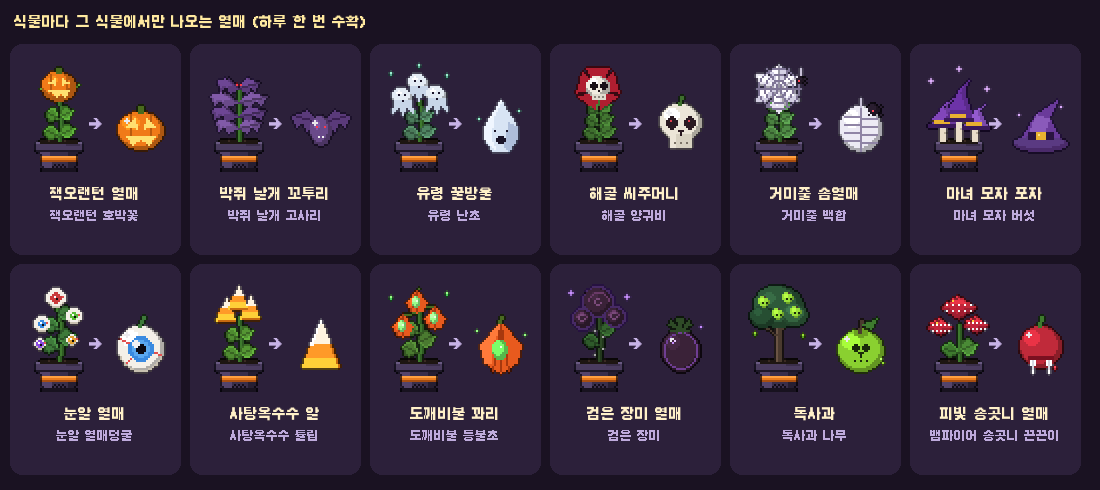
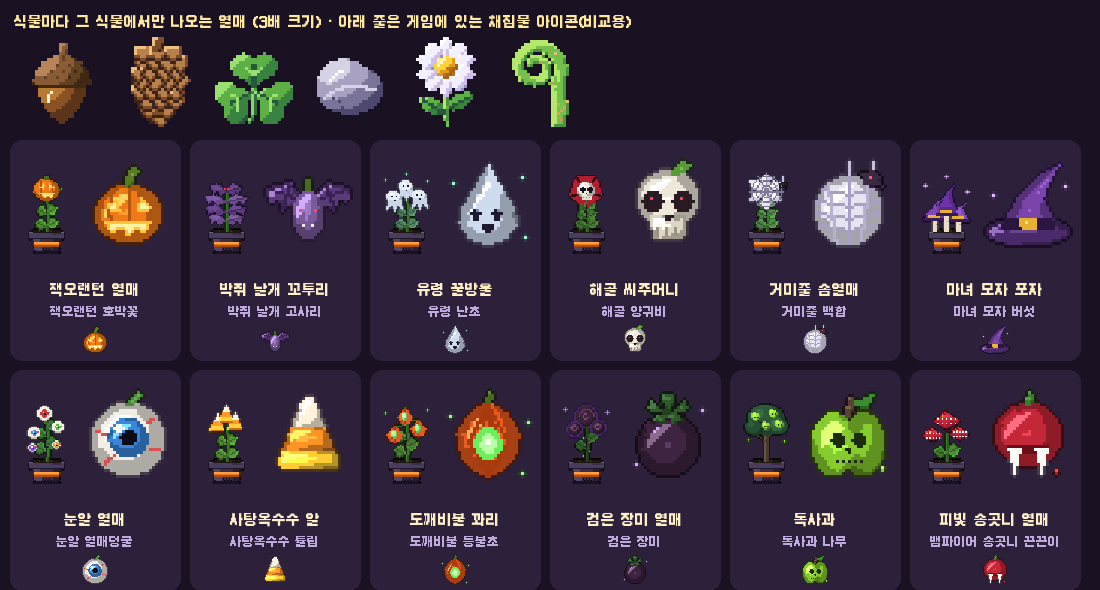
마법 씨앗 대회 시안: 열매 12종 다시 그림 (입체 음영 5단·색 테두리, 게임 아이콘 그림체)
Claude-Session: https://claude.ai/code/session_01HhJ2NoNCjk5kaA3GWL7UDs

Changed region(s): [[0.0, 0.0, 0.6491, 1.0], [0.8345, 0.1224, 0.9891, 1.0], [0.68, 0.1224, 0.8036, 1.0]]

diff --git a/tools/iso/seed_fruits.py b/tools/iso/seed_fruits.py
@@ -1,89 +1,134 @@
-# 마법 씨앗 대회: 할로윈 식물 12종에서만 나오는 열매 12종 (아이템 아이콘 32×32, 게임 아이콘과 같은 LPC 그림체)
+# 마법 씨앗 대회: 할로윈 식물 12종에서만 나오는 열매 12종 (아이템 아이콘 32×32)
+#   게임 아이콘 그림체: 모양마다 입체 음영 5단(왼쪽 위 빛) · 반짝 · 테두리는 그 색의 아주 어두운 톤
 #   python3 seed_fruits.py → out/seed_fruits.png (32×32 × 12) · out/seed_fruits_preview.png
 import os, math
+import numpy as np
 from PIL import Image, ImageDraw, ImageFont
-import seed_plants as SP   # 테두리·음영 손잡이 (import 하면 식물 그림도 다시 만들어요)
+from scipy import ndimage
 HERE = os.path.dirname(os.path.abspath(__file__)); OUT = os.path.join(HERE, 'out')
-hx, sh, ramp, outline = SP.hx, SP.sh, SP.ramp, SP.outline
-class I:
-    def __init__(s): s.im = Image.new('RGBA', (32, 32), (0, 0, 0, 0)); s.d = ImageDraw.Draw(s.im)
-    def ball(s, x, y, rx, ry, c):   # 둥근 열매 4단 음영 + 반짝
-        d0, m, l = ramp(c); s.d.ellipse([x - rx, y - ry, x + rx, y + ry], fill=d0); s.d.ellipse([x - rx, y - ry, x + rx - 2, y + ry - 2], fill=m)
-        if rx > 4 and ry > 4: s.d.ellipse([x - rx + 2, y - ry + 2, x - 1, y - 1], fill=l); s.d.ellipse([x - rx * .55 - 1, y - ry * .55 - 1, x - rx * .55 + 1, y - ry * .55 + 1], fill=(255, 255, 255, 230))
-    def px(s, x, y, c): s.d.point((x, y), fill=hx(c) if isinstance(c, str) else c)
-    def poly(s, pts, c): s.d.polygon(pts, fill=hx(c) if isinstance(c, str) else c)
-    def line(s, pts, c, w=1): s.d.line(pts, fill=hx(c) if isinstance(c, str) else c, width=w)
-    def stem(s, x, y, c='#4A6A22'): s.line([(x, y), (x + 1, y - 4)], c, 2); s.poly([(x + 1, y - 3), (x + 7, y - 6), (x + 3, y - 1)], '#5A9A2E')
-    def done(s): return outline(s.im)
-def jack(s):   # 잭오랜턴 열매
-    s.ball(16, 18, 11, 9, '#F07A18'); s.line([(11, 10), (11, 26)], '#B85A0E'); s.line([(21, 10), (21, 26)], '#B85A0E'); s.d.rectangle([15, 6, 17, 9], fill=hx('#4A6A1E'))
-    s.poly([(9, 16), (13, 12), (14, 17)], '#FFE070'); s.poly([(23, 16), (19, 12), (18, 17)], '#FFE070'); s.poly([(9, 21), (23, 21), (20, 25), (16, 22), (12, 25)], '#FFE070')
-def bat(s):    # 박쥐 날개 꼬투리
-    for k in (-1, 1): s.poly([(16, 14), (16 + k * 7, 8), (16 + k * 14, 11), (16 + k * 12, 16), (16 + k * 9, 14), (16 + k * 7, 18)], '#5A3A7A')
-    for k in (-1, 1): s.line([(16, 14), (16 + k * 12, 11)], '#3A2052')
-    s.ball(16, 18, 5, 7, '#6A4A8A'); s.px(14, 16, '#FF3A4A'); s.px(18, 16, '#FF3A4A'); s.px(15, 21, '#F0F0F0'); s.px(17, 21, '#F0F0F0')
-def ghostdrop(s):   # 유령 꿀방울
-    s.poly([(16, 3), (24, 16), (24, 22), (20, 28), (12, 28), (8, 22), (8, 16)], '#D8E4F4'); s.poly([(16, 3), (12, 12), (11, 22), (13, 27), (8, 22), (8, 16)], '#F0F6FF')
-    s.poly([(20, 14), (24, 16), (24, 22), (20, 28), (18, 26)], '#AEBEDA'); s.px(13, 18, '#1A1428'); s.px(19, 18, '#1A1428'); s.d.ellipse([14, 21, 18, 24], fill=hx('#1A1428'))
-    s.px(11, 11, '#FFFFFF'); s.px(25, 8, '#9AF0D0'); s.px(5, 12, '#9AF0D0')
-def skull(s):  # 해골 씨주머니
-    s.ball(16, 14, 10, 9, '#ECE6D8'); s.d.rectangle([11, 20, 21, 26], fill=hx('#D8D2C2')); s.d.rectangle([11, 20, 13, 26], fill=hx('#ECE6D8'))
-    s.d.ellipse([9, 11, 14, 17], fill=hx('#2A1A22')); s.d.ellipse([18, 11, 23, 17], fill=hx('#2A1A22')); s.px(11, 13, '#E04050'); s.px(20, 13, '#E04050')
-    s.poly([(15, 18), (17, 18), (16, 20)], '#2A1A22'); [s.px(x, 24, '#7A7266') for x in (13, 16, 19)]
-    s.line([(16, 5), (17, 1)], '#3E6E2E', 2)
-def web(s):    # 거미줄 솜열매
-    s.ball(16, 17, 10, 11, '#ECEAF4')
-    for y in (11, 15, 19, 23): s.line([(8, y), (24, y + 1)], (170, 160, 195, 200))
-    s.line([(16, 6), (16, 28)], (170, 160, 195, 200)); s.line([(16, 2), (16, 6)], '#C8C0D8')
-    s.ball(23, 8, 2.6, 2.4, '#2A1E30'); s.px(22, 8, '#FF4A5A'); [s.px(23 + dx, 8 + dy, '#2A1E30') for dx, dy in ((-3, -2), (3, -2), (-3, 2), (3, 2))]
-def hat(s):    # 마녀 모자 포자
-    s.poly([(5, 24), (27, 24), (20, 12), (24, 3), (14, 10)], '#6A3A9A'); s.poly([(14, 10), (20, 12), (17, 22), (9, 22)], '#8A5ABA')
-    s.d.ellipse([3, 21, 29, 28], fill=hx('#4A2A6A')); s.d.ellipse([3, 21, 27, 26], fill=hx('#5A3A82'))
-    s.d.rectangle([10, 19, 22, 22], fill=hx('#2A1440')); s.d.rectangle([14, 19, 18, 22], fill=hx('#E8B030')); s.px(15, 20, '#FFE080')
-    s.px(26, 6, '#E0B0FF'); s.px(5, 10, '#E0B0FF')
-def eye(s):    # 눈알 열매
-    s.ball(16, 17, 11, 11, '#F4F0E8'); s.d.arc([5, 6, 27, 28], 20, 160, fill=hx('#C8C0B0'))
-    for pts in (((6, 12), (10, 14)), ((26, 20), (22, 19)), ((9, 24), (12, 21))): s.line(list(pts), '#E05050')
-    s.d.ellipse([10, 11, 22, 23], fill=hx('#3A8AE0')); s.d.ellipse([12, 13, 20, 21], fill=hx('#5AA8F0')); s.d.ellipse([14, 15, 18, 19], fill=hx('#0A0A14')); s.d.ellipse([12, 13, 15, 16], fill=(255, 255, 255, 240))
-    s.line([(16, 6), (18, 1)], '#3E7A3A', 2)
-def candy(s):  # 사탕옥수수 알
-    s.poly([(16, 3), (25, 26), (7, 26)], '#FFF4E0'); s.poly([(11, 15), (21, 15), (25, 26), (7, 26)], '#FF9A28'); s.poly([(8.5, 22), (23.5, 22), (25, 26), (7, 26)], '#FFD038')
-    s.poly([(16, 3), (13, 11), (12, 15), (11, 15)], '#FFFFFF'); s.line([(21, 15), (25, 26)], '#C86A10'); s.px(14, 8, '#FFFFFF')
-def wisp(s):   # 도깨비불 꽈리
-    s.poly([(16, 4), (26, 15), (24, 24), (16, 29), (8, 24), (6, 15)], '#E85A1E'); s.poly([(16, 4), (12, 14), (11, 24), (8, 24), (6, 15)], '#FF7A3A')
-    for x in (12, 16, 20): s.line([(16, 5), (x, 28)], '#A8380E')
-    s.ball(16, 18, 3.5, 4.5, '#7AFF6A'); s.px(16, 16, '#F0FFE8'); s.line([(16, 4), (17, 1)], '#4A6A22', 2)
-    s.px(4, 8, '#9AFF8A'); s.px(28, 10, '#9AFF8A')
-def rosehip(s):   # 검은 장미 열매
-    s.ball(16, 18, 9, 10, '#3A2238'); s.d.ellipse([8, 9, 24, 27], outline=(150, 80, 200, 160))
-    for k in range(5): a = math.radians(k * 72 - 90); s.poly([(16, 8), (16 + 6 * math.cos(a - .3), 8 + 4 * math.sin(a - .3) - 2), (16 + 6 * math.cos(a + .3), 8 + 4 * math.sin(a + .3) - 2)], '#2E4A26')
-    s.px(12, 14, '#C890FF'); s.px(13, 13, '#E8C8FF'); s.px(26, 6, '#C890FF')
-def apple(s):  # 독사과
-    s.ball(16, 18, 11, 10, '#8AD030'); s.d.ellipse([13, 7, 19, 11], fill=hx('#6AA020')); s.line([(16, 9), (17, 3)], '#4A3A2E', 2); s.poly([(17, 5), (24, 2), (21, 7)], '#3E7A2E')
-    s.d.ellipse([12, 15, 15, 18], fill=hx('#1A2A0A')); s.d.ellipse([17, 15, 20, 18], fill=hx('#1A2A0A')); s.poly([(15, 19), (17, 19), (16, 21)], '#1A2A0A')
-    for x in (13, 16, 19): s.px(x, 23, '#1A2A0A')
-    s.px(26, 22, '#B8FF6A'); s.px(27, 24, '#9AE03A')
-def fang(s):   # 피빛 송곳니 열매
-    s.ball(16, 16, 10, 10, '#C02A3A'); s.poly([(11, 22), (13, 22), (12, 29)], '#FFFFFF'); s.poly([(19, 22), (21, 22), (20, 29)], '#FFFFFF')
-    s.line([(12, 22), (12, 27)], '#D8D8E0'); s.line([(20, 22), (20, 27)], '#D8D8E0'); s.d.rectangle([10, 21, 22, 22], fill=hx('#7A1020'))
-    s.line([(16, 6), (17, 1)], '#3E7A2E', 2); s.px(23, 26, '#FF5060'); s.px(23, 27, '#C02A3A')
+N, SS = 32, 4
+def hx(c): return np.array([int(c[i:i + 2], 16) for i in (1, 3, 5)], float)
+class Icon:
+    def __init__(s): s.rgb = np.zeros((N, N, 3)); s.a = np.zeros((N, N), bool); s.own = np.full((N, N), -1); s.cols = []
+    def mask(s, fn):   # 4배로 그려서 줄이면 둥근 모양이 매끈해요
+        im = Image.new('L', (N * SS, N * SS), 0); d = ImageDraw.Draw(im); fn(d, SS)
+        return np.array(im.resize((N, N), Image.BOX)) > 110
+    def shade(s, m, c, gloss=True, flat=False, k=1.0):   # 입체 음영 5단
+        if not m.any(): return m
+        base = hx(c); pal = [base * .5, base * .72, base, np.minimum(255, base * 1.12 + 22), np.minimum(255, base * 1.25 + 60)]
+        if flat: tone = np.full((N, N), 2)
+        else:
+            d = ndimage.distance_transform_edt(m); dn = d / max(1, d.max()); g = ndimage.gaussian_filter(d, 1.0); gy, gx = np.gradient(g)
+            lt = -(gx + gy) / (np.hypot(gx, gy) + 1e-6); YY, XX = np.mgrid[0:N, 0:N]; ys, xs = np.nonzero(m)
+            pos = -((XX - xs.mean()) / (np.ptp(xs) + 1) + (YY - ys.mean()) / (np.ptp(ys) + 1))   # 왼쪽 위가 밝게
+            v = .42 * dn + .22 * lt * (1 - dn) + .55 * pos * k + .32; tone = np.clip(np.floor(v * 4.2), 0, 3).astype(int)
+            if gloss:
+                hp = (m & (dn > .35) & (pos > .28)); tone[hp] = 4
+        for t in range(5): sel = m & (tone == t); s.rgb[sel] = pal[t]
+        s.a |= m; s.cols.append(base); s.own[m] = len(s.cols) - 1; return m
+    def fill(s, m, c): s.rgb[m] = hx(c); s.a |= m; s.cols.append(hx(c)); s.own[m] = len(s.cols) - 1
+    def px(s, x, y, c): s.rgb[y, x] = hx(c); s.a[y, x] = True; s.cols.append(hx(c)); s.own[y, x] = len(s.cols) - 1
+    def image(s):   # 바깥 테두리: 이웃한 색을 아주 어둡게
+        out = np.zeros((N, N, 4), np.uint8); out[s.a, :3] = np.clip(s.rgb[s.a], 0, 255); out[s.a, 3] = 255
+        ring = ndimage.binary_dilation(s.a) & ~s.a
+        for y, x in zip(*np.nonzero(ring)):
+            for dy, dx in ((0, 1), (0, -1), (1, 0), (-1, 0), (1, 1), (-1, -1), (1, -1), (-1, 1)):
+                Y, X = y + dy, x + dx
+                if 0 <= Y < N and 0 <= X < N and s.a[Y, X]:
+                    c = s.cols[s.own[Y, X]] if s.own[Y, X] >= 0 else s.rgb[Y, X]; out[y, x, :3] = np.clip(c * np.array([.26, .22, .3]) + 6, 0, 255); out[y, x, 3] = 255; break
+        return Image.fromarray(out)
+E = lambda x0, y0, x1, y1: (lambda d, k: d.ellipse([x0 * k, y0 * k, x1 * k, y1 * k], fill=255))
+PG = lambda pts: (lambda d, k: d.polygon([(x * k, y * k) for x, y in pts], fill=255))
+LN = lambda pts, w: (lambda d, k: d.line([(x * k, y * k) for x, y in pts], fill=255, width=int(w * k)))
+def inner_line(s, m_base, pts, c, w=1):   # 모양 안쪽 선 (호박 골 같은 것)
+    m = s.mask(LN(pts, w)) & m_base; s.rgb[m] = hx(c)
+def jack(s):
+    m = s.shade(s.mask(E(5, 9, 27, 28)), '#F07A18')
+    for pts in (((11, 10), (9.5, 18), (11, 27)), ((21, 10), (22.5, 18), (21, 27)), ((16, 9.5), (16, 28))): inner_line(s, m, pts, '#B4560E')
+    s.shade(s.mask(LN([(16, 10), (16.5, 6), (19, 3.5)], 2.6)), '#5A7A22', gloss=False)
+    for pts, c in ((((8, 17), (12, 13), (13.5, 18)), '#FFC23A'), (((24, 17), (20, 13), (18.5, 18)), '#FFC23A'), (((8, 21), (24, 21), (21, 25.5), (18.5, 23), (16, 26), (13.5, 23), (11, 25.5)), '#FFC23A')):
+        mm = s.mask(PG(pts)) & m; s.rgb[mm] = hx(c); core = ndimage.binary_erosion(mm); s.rgb[core] = hx('#FFF2A0')
+def bat(s):
+    for k in (-1, 1):
+        w = s.shade(s.mask(PG([(16, 15), (16 + k * 6, 8), (16 + k * 14, 10), (16 + k * 13, 15), (16 + k * 10, 13.5), (16 + k * 8.5, 18), (16 + k * 6, 15.5)])), '#5A3A7A', k=.6)
+        inner_line(s, w, [(16, 15), (16 + k * 12.5, 10.5)], '#3A2050'); inner_line(s, w, [(16 + k * 6, 9), (16 + k * 8.5, 17)], '#3A2050')
+    s.shade(s.mask(E(11, 11, 21, 27)), '#7A5A9A')
+    for x in (13.5, 18.5): s.px(int(x), 17, '#FF4A5A')
+    s.px(14, 22, '#F4F0F0'); s.px(17, 22, '#F4F0F0'); s.fill(s.mask(LN([(16, 11), (16, 7)], 1.6)), '#4A6A22')
+def ghostdrop(s):
+    m = s.shade(s.mask(PG([(16, 2), (20, 9), (25, 17), (25.5, 22), (22, 27), (16, 29), (10, 27), (6.5, 22), (7, 17), (12, 9)])), '#CFDCF0', k=1.1)
+    for x in (12, 19): s.fill(s.mask(E(x - 1.4, 16.5, x + 1.4, 20.5)) & m, '#1E1830')
+    s.fill(s.mask(E(14.3, 21.5, 17.7, 25)) & m, '#1E1830'); s.px(12, 17, '#7A88B8'); s.px(19, 17, '#7A88B8')
+    for x, y in ((4, 8), (27, 6), (28, 26)): s.px(x, y, '#A8F4DA')
+def skull(s):
+    head = s.shade(s.mask(E(6, 4, 26, 23)), '#EEE8DA'); jaw = s.shade(s.mask(PG([(10, 19), (22, 19), (21, 27), (11, 27)])), '#DED6C4', k=.7)
+    for x in (11, 21): s.fill(s.mask(E(x - 3.4, 11, x + 3.4, 18)) & head, '#2A1A24'); s.px(int(x) - 1, 13, '#E8485A')
+    s.fill(s.mask(PG([(14.5, 19), (17.5, 19), (16, 21.5)])) & head, '#2A1A24')
+    for x in (12.5, 15.5, 18.5): inner_line(s, jaw, [(x, 22.5), (x, 26)], '#9A9282')
+    s.shade(s.mask(PG([(16, 5), (21, 1), (24, 2.5), (19, 6)])), '#5A9A3A', gloss=False)
+def web(s):
+    m = s.shade(s.mask(E(5, 6, 27, 29)), '#E6E4F0')
+    for y in (11, 15, 19, 23): inner_line(s, m, [(4, y - 1), (16, y + 1), (28, y - 1)], '#A8A0C4')
+    inner_line(s, m, [(16, 5), (16, 30)], '#A8A0C4'); inner_line(s, m, [(9, 7), (12, 29)], '#B8B0D0'); inner_line(s, m, [(23, 7), (20, 29)], '#B8B0D0')
+    s.fill(s.mask(LN([(16, 1), (16, 6)], 1)), '#C8C0DC'); s.fill(s.mask(LN([(24, 1), (24, 5)], 1)), '#C8C0DC')
+    sp = s.shade(s.mask(E(21.5, 4.5, 26.5, 9.5)), '#3A2A44', gloss=False)
+    for dx, dy in ((-3.5, -1.5), (3.5, -1.5), (-3.5, 2), (3.5, 2)): s.fill(s.mask(LN([(24, 7), (24 + dx, 7 + dy)], 1)), '#3A2A44')
+    s.px(23, 6, '#FF5A6A')
+def hat(s):
+    s.shade(s.mask(E(2, 20, 30, 29)), '#4A2A6A', k=.5)
+    m = s.shade(s.mask(PG([(6, 24), (26, 24), (21, 13), (25, 4), (27, 2), (19, 6), (14, 11)])), '#7A44AA')
+    s.fill(s.mask(PG([(8, 20), (24, 20), (25, 23.5), (7, 23.5)])) & m, '#2A1440'); s.fill(s.mask(PG([(13.5, 20), (18.5, 20), (18.5, 23.5), (13.5, 23.5)])), '#E8B030'); s.px(15, 21, '#FFE89A')
+    for x, y in ((28, 9), (4, 12)): s.px(x, y, '#E6B8FF')
+def eye(s):
+    m = s.shade(s.mask(E(4, 5, 28, 29)), '#F2EEE6')
+    for pts in (((5, 14), (9, 16), (11, 15)), ((27, 21), (23, 20)), ((8, 25), (12, 22)), ((25, 10), (22, 12))): inner_line(s, m, pts, '#D85050')
+    s.shade(s.mask(E(9.5, 10, 22.5, 23)) & m, '#3A86DC'); s.fill(s.mask(E(13.5, 14, 18.5, 19)) & m, '#0C0C16'); s.fill(s.mask(E(11.5, 12, 14.5, 15)) & m, '#FFFFFF')
+    s.shade(s.mask(PG([(15, 6), (19, 1), (21, 2), (17, 6)])), '#4A8A3A', gloss=False)
+def candy(s):
+    m = s.mask(PG([(16, 2.5), (18, 4), (26, 24), (25, 27), (7, 27), (6, 24), (14, 4)]))
+    s.shade(m & s.mask(PG([(0, 0), (32, 0), (32, 13), (0, 13)])), '#FFF2DA'); s.shade(m & s.mask(PG([(0, 13), (32, 13), (32, 21), (0, 21)])), '#FF9426'); s.shade(m & s.mask(PG([(0, 21), (32, 21), (32, 32), (0, 32)])), '#FFCC34')
+    for x, y in ((14, 7), (14, 8), (13, 10)): s.px(x, y, '#FFFFFF')
+def wisp(s):
+    m = s.shade(s.mask(PG([(16, 4), (22, 8), (26.5, 15), (25, 23), (20, 28), (16, 29.5), (12, 28), (7, 23), (5.5, 15), (10, 8)])), '#E85A1E')
+    for x in (9.5, 13, 16, 19, 22.5): inner_line(s, m, [(16, 5), (x, 18), (16, 29)], '#A83A0E')
+    g = s.mask(E(11.5, 13, 20.5, 24)) & m; s.fill(g, '#6AF05A'); s.fill(s.mask(E(13.5, 15, 18.5, 22)) & m, '#B8FFA8'); s.fill(s.mask(E(15, 16.5, 17, 19)) & m, '#F4FFEE')
+    s.shade(s.mask(LN([(16, 5), (17, 1.5)], 2)), '#4A6A22', gloss=False)
+    for x, y in ((3, 9), (29, 11), (27, 28)): s.px(x, y, '#9AFF8A')
+def rosehip(s):
+    s.shade(s.mask(E(6, 9, 26, 29)), '#3E2440')
+    for a in range(5): r = math.radians(a * 72 - 90); s.shade(s.mask(PG([(16, 9), (16 + 7 * math.cos(r - .35), 7 + 5 * math.sin(r - .35)), (16 + 7 * math.cos(r + .35), 7 + 5 * math.sin(r + .35))])), '#2E5A2A', gloss=False)
+    for x, y in ((11, 14), (12, 13), (27, 7), (5, 25)): s.px(x, y, '#D8A8FF')
+def apple(s):
+    m = s.shade(s.mask(lambda d, k: (d.ellipse([4 * k, 8 * k, 18 * k, 29 * k], fill=255), d.ellipse([14 * k, 8 * k, 28 * k, 29 * k], fill=255))), '#86CC2E')
+    s.fill(s.mask(E(13, 7, 19, 11)) & m, '#5E9A1E'); s.shade(s.mask(LN([(16, 10), (17, 3)], 2)), '#5A4232', gloss=False); s.shade(s.mask(PG([(17, 5), (25, 1.5), (22, 7)])), '#3E8A2E', gloss=False)
+    for x in (12.5, 19.5): s.fill(s.mask(E(x - 2, 15, x + 2, 19.5)) & m, '#1C2C0C')
+    s.fill(s.mask(PG([(15, 20), (17, 20), (16, 22)])) & m, '#1C2C0C')
+    for x in (12, 14, 16, 18, 20): s.px(x, 24, '#1C2C0C')
+    s.px(27, 26, '#C0FF70'); s.px(27, 27, '#86CC2E')
+def fang(s):
+    m = s.shade(s.mask(E(5, 5, 27, 26)), '#C42838')
+    s.fill(s.mask(PG([(9, 19), (23, 19), (22, 21.5), (10, 21.5)])) & m, '#6A0E1C')
+    for x in (11.5, 20.5): s.shade(s.mask(PG([(x - 2, 20), (x + 2, 20), (x, 29)])), '#FAF6F0', k=.4)
+    s.shade(s.mask(LN([(16, 6), (17, 1.5)], 2)), '#3E7A2E', gloss=False); s.px(25, 27, '#FF4A5A'); s.px(25, 28, '#A01E2E')
 FRUITS = [('잭오랜턴 열매', jack, '잭오랜턴 호박꽃'), ('박쥐 날개 꼬투리', bat, '박쥐 날개 고사리'), ('유령 꿀방울', ghostdrop, '유령 난초'), ('해골 씨주머니', skull, '해골 양귀비'),
           ('거미줄 솜열매', web, '거미줄 백합'), ('마녀 모자 포자', hat, '마녀 모자 버섯'), ('눈알 열매', eye, '눈알 열매덩굴'), ('사탕옥수수 알', candy, '사탕옥수수 튤립'),
           ('도깨비불 꽈리', wisp, '도깨비불 등불초'), ('검은 장미 열매', rosehip, '검은 장미'), ('독사과', apple, '독사과 나무'), ('피빛 송곳니 열매', fang, '뱀파이어 송곳니 끈끈이')]
 if __name__ == '__main__':
     icons = []
-    for nm, fn, _ in FRUITS: s = I(); fn(s); icons.append(s.done())
+    for nm, fn, _ in FRUITS: s = Icon(); fn(s); icons.append(s.image())
     S = Image.new('RGBA', (32 * len(icons), 32), (0, 0, 0, 0))
     for i, c in enumerate(icons): S.alpha_composite(c, (i * 32, 0))
     S.save(os.path.join(OUT, 'seed_fruits.png'))
-    plants = Image.open(os.path.join(OUT, 'seed_plants.png')).convert('RGBA')
+    plants = Image.open(os.path.join(OUT, 'seed_plants.png')).convert('RGBA'); ref = Image.open(os.path.join(HERE, '../../public/art/forage.png')).convert('RGBA').crop((0, 0, 32 * 6, 32))
     fb = '/tmp/claude-0/-home-user/d683bb50-b1f3-59a3-8e5f-5f21e64e8c5a/scratchpad/Galmuri11-Bold.ttf'
     F = ImageFont.truetype(fb, 14) if os.path.exists(fb) else ImageFont.load_default(); F2 = ImageFont.truetype(fb, 12) if os.path.exists(fb) else F
-    cw, chh = 180, 220; pv = Image.new('RGB', (cw * 6 + 20, 50 + chh * 2), (26, 18, 34)); d = ImageDraw.Draw(pv)
-    d.text((14, 14), '식물마다 그 식물에서만 나오는 열매 (하루 한 번 수확)', font=F, fill=(255, 233, 160))
+    cw, chh = 180, 230; pv = Image.new('RGB', (cw * 6 + 20, 130 + chh * 2), (26, 18, 34)); d = ImageDraw.Draw(pv)
+    d.text((14, 14), '식물마다 그 식물에서만 나오는 열매 (3배 크기) · 아래 줄은 게임에 있는 채집물 아이콘(비교용)', font=F, fill=(255, 233, 160))
+    r3 = ref.resize((ref.width * 3, 96), Image.NEAREST); pv.paste(r3, (14, 34), r3)
     for i, (nm, fn, pn) in enumerate(FRUITS):
-        x, y = 10 + (i % 6) * cw, 44 + (i // 6) * chh; d.rounded_rectangle([x, y, x + cw - 10, y + chh - 10], 12, fill=(44, 32, 58))
-        p = plants.crop(((15 + i) * 40, 0, (16 + i) * 40, 56)).resize((80, 112), Image.NEAREST); pv.paste(p, (x + 8, y + 16), p)
-        f = icons[i].resize((64, 64), Image.NEAREST); pv.paste(f, (x + 98, y + 50), f); d.text((x + 86, y + 80), '→', font=F, fill=(200, 180, 230), anchor='mm')
+        x, y = 10 + (i % 6) * cw, 140 + (i // 6) * chh; d.rounded_rectangle([x, y, x + cw - 10, y + chh - 10], 12, fill=(44, 32, 58))
+        p = plants.crop(((15 + i) * 40, 0, (16 + i) * 40, 56)).resize((60, 84), Image.NEAREST); pv.paste(p, (x + 6, y + 30), p)
+        f = icons[i].resize((96, 96), Image.NEAREST); pv.paste(f, (x + 70, y + 18), f)
         d.text((x + (cw - 10) / 2, y + 150), nm, font=F, fill=(255, 240, 200), anchor='mm'); d.text((x + (cw - 10) / 2, y + 172), pn, font=F2, fill=(190, 170, 220), anchor='mm')
+        s1 = icons[i]; pv.paste(s1, (x + (cw - 10) // 2 - 16, y + 184), s1)
     pv.save(os.path.join(OUT, 'seed_fruits_preview.png')); print('fruits ok')
